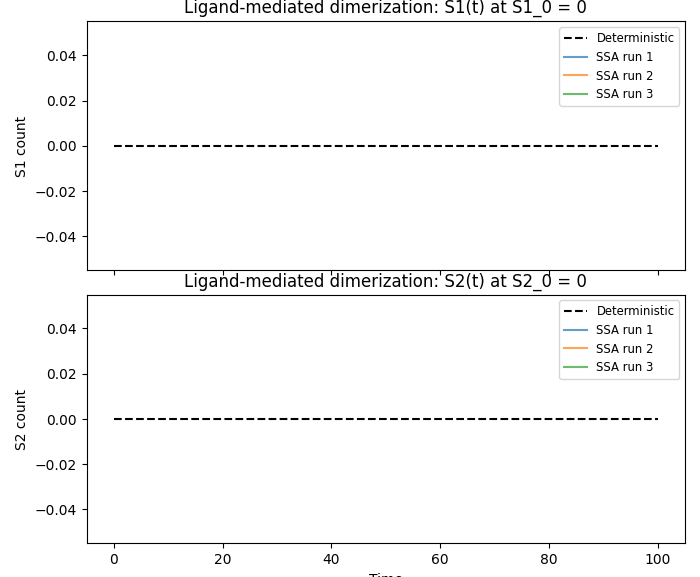
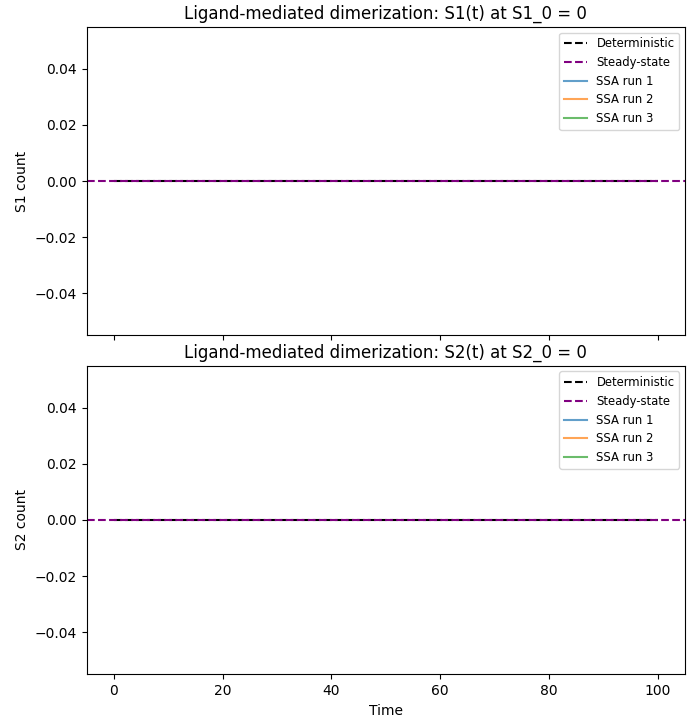
plot

diff --git a/M2R-Gillespie-algorithm-for-stochastic-biochemical-systems/src/ligand_heatmap.py b/M2R-Gillespie-algorithm-for-stochastic-biochemical-systems/src/ligand_heatmap.py
@@ -1,0 +1,100 @@
+import numpy as np  # noqa
+import matplotlib.pyplot as plt  # noqa
+from gillespie import Reaction, my_gillespie  # noqa
+
+
+def sample_mean_S1_S2(k1, k2, # noqa
+                     S1_0, S2_0, # noqa
+                     t_max, burn_in, dt_sample): # noqa
+    # build reactions
+    R1 = Reaction( # noqa
+        reactants={0: 1, 1: 1},
+        products={0: 2},
+        rate=lambda s, k1=k1: k1
+    )
+    R2 = Reaction( # noqa
+        reactants={0: 2},
+        products={0: 1, 1: 1},
+        rate=lambda s, k2=k2: k2
+    )
+    reactions = [R1, R2]
+
+    # run SSA
+    times, traj = my_gillespie(reactions, [S1_0, S2_0], t_max)
+
+    # sample in steady‐state window
+    sample_times = np.arange(burn_in, t_max, dt_sample)
+    S1_traj = traj[:, 0] # noqa
+    S2_traj = traj[:, 1] # noqa
+    S1_samples = np.interp(sample_times, times, S1_traj) # noqa
+    S2_samples = np.interp(sample_times, times, S2_traj) # noqa
+
+    return S1_samples.mean(), S2_samples.mean()
+
+
+def plot_ligand_heatmap(k1_vals, k2_vals, # noqa
+                        S1_0=100, S2_0=50, # noqa
+                        t_max=500.0,
+                        burn_in=250.0,
+                        dt_sample=5.0,
+                        n_runs=5): # noqa
+    M, N = len(k1_vals), len(k2_vals) # noqa
+    mean_S1 = np.zeros((M, N)) # noqa
+    mean_S2 = np.zeros((M, N)) # noqa
+
+    for i, k1 in enumerate(k1_vals):
+        for j, k2 in enumerate(k2_vals):
+            s1, s2 = 0.0, 0.0
+            for _ in range(n_runs):
+                m1, m2 = sample_mean_S1_S2(
+                    k1, k2,
+                    S1_0, S2_0,
+                    t_max, burn_in, dt_sample
+                )
+                s1 += m1
+                s2 += m2
+            mean_S1[i, j] = s1 / n_runs
+            mean_S2[i, j] = s2 / n_runs
+
+    # create meshgrid for plotting
+    K2, K1 = np.meshgrid(k2_vals, k1_vals) # noqa
+
+    # plot
+    fig, (ax1, ax2) = plt.subplots(1, 2, figsize=(12, 5))
+
+    im1 = ax1.pcolormesh(
+        K2, K1, mean_S1,
+        shading='auto', cmap='viridis'
+    )
+    fig.colorbar(im1, ax=ax1, label='Mean S1')
+    ax1.set_xlabel('k2 (dissociation rate)')
+    ax1.set_ylabel('k1 (association rate)')
+    ax1.set_title('Steady-state mean S1')
+
+    im2 = ax2.pcolormesh(
+        K2, K1, mean_S2,
+        shading='auto', cmap='magma'
+    )
+    fig.colorbar(im2, ax=ax2, label='Mean S2')
+    ax2.set_xlabel('k2 (dissociation rate)')
+    ax2.set_ylabel('k1 (association rate)')
+    ax2.set_title('Steady-state mean S2')
+
+    fig.suptitle('Ligand_heatmap')
+
+    plt.tight_layout()
+    plt.show()
+
+
+if __name__ == "__main__":
+    k1_vals = np.linspace(0.001, 0.01, 10)
+    k2_vals = np.linspace(0.001, 0.02, 10)
+
+    plot_ligand_heatmap(
+        k1_vals, k2_vals,
+        S1_0=100, S2_0=50,
+        t_max=500.0,
+        burn_in=250.0,
+        dt_sample=5.0,
+        n_runs=5
+    )

diff --git a/M2R-Gillespie-algorithm-for-stochastic-biochemical-systems/src/degradation_example_in_ref.py b/M2R-Gillespie-algorithm-for-stochastic-biochemical-systems/src/degradation_example_in_ref.py
@@ -1,30 +1,59 @@
-import numpy as np # noqa
+import numpy as np  # noqa
 import matplotlib.pyplot as plt
 from gillespie import Reaction, my_gillespie
 
-# Case 1: degradation
-k = 1.0
-R = Reaction(reactants={0: 1}, products={}, rate=lambda state: k)
-initial = [100]
-t_max=6 # noqa
 
-# analytic mean and std
-t = np.linspace(0, t_max, 200)
-mean = initial[0] * np.exp(-k * t)
-std = np.sqrt(initial[0] * np.exp(-k * t) * (1 - np.exp(-k * t)))
+def plot_degradation_two_ks( # noqa
+    k_list, X0=100, t_max=6.0, n_ssa=2 # noqa
+):  # noqa
+    t = np.linspace(0, t_max, 200)
+    fig, axes = plt.subplots(
+        1, len(k_list),
+        figsize=(5 * len(k_list), 4),
+        sharey=True,
+        constrained_layout=True
+    )
+    if len(k_list) == 1:
+        axes = [axes]
 
-plt.figure(figsize=(8, 5))
-for run_idx in range(2):
-    times, traj = my_gillespie([R], initial, t_max)
-    plt.step(times, traj[:, 0], where='post', alpha=0.7, label=f'SSA run {run_idx+1}') # noqa
+    for ax, k in zip(axes, k_list):
+        # analytic
+        mean = X0 * np.exp(-k * t)
+        std  = np.sqrt(X0 * np.exp(-k * t) * (1 - np.exp(-k * t))) # noqa
+        ax.plot(t, mean, 'r-',  lw=1.5, label='Analytic mean')
+        ax.plot(t, mean+ std,'r--', lw=1.0, label='Analytic ±1 std') # noqa
+        ax.plot(t, mean- std,'r--', lw=1.0) # noqa
 
-# plot analytic mean and ±1
-plt.plot(t, mean,  'r-',  linewidth=1.5, label='Analytic mean')
-plt.plot(t, mean+std, 'r--', linewidth=1.0, label='Analytic ±1 std')
-plt.plot(t, mean-std, 'r--', linewidth=1.0)
+        # SSA runs
+        for i in range(n_ssa):
+            R = Reaction( # noqa
+                reactants={0: 1},
+                products={},
+                rate=lambda s, k=k: k
+            )
+            times, traj = my_gillespie([R], [X0], t_max)
+            ax.step(
+                times, traj[:, 0],
+                where='post',
+                alpha=0.7,
+                label=(f'SSA run {i+1}')
+            )
 
-plt.xlabel('t')
-plt.ylabel('count')
-plt.title('Degradation S->∅')
-plt.legend()
-plt.show()
+        ax.set_title(f'k = {k}')
+        ax.set_xlabel('time')
+        if ax is axes[0]:
+            ax.set_ylabel('count')
+        ax.legend(fontsize='small', loc='upper right')
+
+    fig.suptitle('Degradation S→∅')
+
+    plt.show()
+
+
+if __name__ == "__main__":
+    plot_degradation_two_ks(
+        k_list=[0.5, 2.0],
+        X0=100,
+        t_max=6.0,
+        n_ssa=2
+    )

diff --git a/M2R-Gillespie-algorithm-for-stochastic-biochemical-systems/src/birth_death_heatmap.py b/M2R-Gillespie-algorithm-for-stochastic-biochemical-systems/src/birth_death_heatmap.py
@@ -1,0 +1,45 @@
+import numpy as np  # noqa
+import matplotlib.pyplot as plt
+from gillespie import Reaction, my_gillespie
+
+
+def plot_bd_heatmap(k1_vals, k2_vals, X0, # noqa
+                    t_max, burn_in, dt_sample, n_runs=50):
+    M, N = len(k1_vals), len(k2_vals) # noqa
+    means = np.zeros((M, N))
+
+    for i, k1_ in enumerate(k1_vals):
+        for j, k2_ in enumerate(k2_vals):
+            birth = Reaction({}, {0: 1}, rate=lambda s, k2_=k2_: k2_)
+            death = Reaction({0: 1}, {},   rate=lambda s, k1_=k1_: k1_)
+            reactions = [birth, death]
+
+            times, traj = my_gillespie(reactions, [X0], t_max)
+            sample_times = np.arange(burn_in, t_max, dt_sample)
+            vals = np.interp(sample_times, times, traj[:, 0])
+            means[i, j] = np.mean(vals)
+
+    plt.figure(figsize=(8, 6))
+    plt.pcolormesh(
+        k2_vals,
+        k1_vals,
+        means,
+        shading='auto',
+        cmap='viridis'
+    )
+    cbar = plt.colorbar()
+    cbar.set_label('Mean molecules count')
+    plt.xlabel('k2 (birth rate)')
+    plt.ylabel('k1 (death rate)')
+    plt.title(f'Steady-state mean (X0={X0})')
+    plt.tight_layout()
+    plt.show()
+
+
+if __name__ == "__main__": # noqa
+    k1, k2, X0 = 0.1, 1.0, 0
+
+    k1_vals = np.linspace(0.05, 0.2, 10)
+    k2_vals = np.linspace(0.5, 2.0, 10)
+    plot_bd_heatmap(k1_vals, k2_vals, X0,
+                    t_max=2000, burn_in=1000, dt_sample=1.0, n_runs=50)

diff --git a/M2R-Gillespie-algorithm-for-stochastic-biochemical-systems/src/ligand_dimerization_case1.py b/M2R-Gillespie-algorithm-for-stochastic-biochemical-systems/src/ligand_dimerization_case1.py
@@ -39,6 +39,9 @@ def ode_system(x, t): # noqa
 
 # Plot function
 def plot_ligand_dimerization(S1_0, S2_0, t_max, n_ssa=5): # noqa
+    N = S1_0 + S2_0 # noqa
+    S1_ss = (k1 * N) / (k1 + k2 / 2) # noqa
+    S2_ss = N - S1_ss # noqa
     # Solve deterministic ODE
     t_grid = np.linspace(0, t_max, 500)
     ode_sol = odeint(ode_system, [S1_0, S2_0], t_grid)
@@ -52,6 +55,7 @@ def plot_ligand_dimerization(S1_0, S2_0, t_max, n_ssa=5): # noqa
     # deterministic
     ax1.plot(t_grid, ode_sol[:, 0],
              "--k", linewidth=1.5, label="Deterministic")
+    ax1.axhline(S1_ss, color='purple', linestyle='--', linewidth=1.5, label='Steady-state') # noqa
     # SSA runs
     for i in range(n_ssa):
         times, traj = my_gillespie(reactions, [S1_0, S2_0], t_max)
@@ -67,6 +71,7 @@ def plot_ligand_dimerization(S1_0, S2_0, t_max, n_ssa=5): # noqa
     # Plot for S2
     ax2.plot(t_grid, ode_sol[:, 1],
              "--k", linewidth=1.5, label="Deterministic")
+    ax2.axhline(S2_ss, color='purple', linestyle='--', linewidth=1.5, label='Steady-state') # noqa
     for i in range(n_ssa):
         # simulate SSA for S2
         times, traj = my_gillespie(reactions, [S1_0, S2_0], t_max)

diff --git a/M2R-Gillespie-algorithm-for-stochastic-biochemical-systems/src/ligand_dimerization_case2.py b/M2R-Gillespie-algorithm-for-stochastic-biochemical-systems/src/ligand_dimerization_case2.py
@@ -39,6 +39,9 @@ def ode_system(x, t): # noqa
 
 # Plot function
 def plot_ligand_dimerization(S1_0, S2_0, t_max, n_ssa=5): # noqa
+    N = S1_0 + S2_0 # noqa
+    S1_ss = (k1 * N) / (k1 + k2 / 2) # noqa
+    S2_ss = N - S1_ss # noqa
     # Solve deterministic ODE
     t_grid = np.linspace(0, t_max, 500)
     ode_sol = odeint(ode_system, [S1_0, S2_0], t_grid)
@@ -52,6 +55,7 @@ def plot_ligand_dimerization(S1_0, S2_0, t_max, n_ssa=5): # noqa
     # deterministic
     ax1.plot(t_grid, ode_sol[:, 0],
              "--k", linewidth=1.5, label="Deterministic")
+    ax1.axhline(S1_ss, color='purple', linestyle='--', linewidth=1.5, label='Steady-state') # noqa
     # SSA runs
     for i in range(n_ssa):
         times, traj = my_gillespie(reactions, [S1_0, S2_0], t_max)
@@ -67,6 +71,7 @@ def plot_ligand_dimerization(S1_0, S2_0, t_max, n_ssa=5): # noqa
     # Plot for S2
     ax2.plot(t_grid, ode_sol[:, 1],
              "--k", linewidth=1.5, label="Deterministic")
+    ax2.axhline(S2_ss, color='purple', linestyle='--', linewidth=1.5, label='Steady-state') # noqa
     for i in range(n_ssa):
         # simulate SSA for S2
         times, traj = my_gillespie(reactions, [S1_0, S2_0], t_max)

diff --git a/M2R-Gillespie-algorithm-for-stochastic-biochemical-systems/src/ligand_dimerization_case3.py b/M2R-Gillespie-algorithm-for-stochastic-biochemical-systems/src/ligand_dimerization_case3.py
@@ -39,6 +39,9 @@ def ode_system(x, t): # noqa
 
 # Plot function
 def plot_ligand_dimerization(S1_0, S2_0, t_max, n_ssa=5): # noqa
+    N = S1_0 + S2_0 # noqa
+    S1_ss = (k1 * N) / (k1 + k2 / 2) # noqa
+    S2_ss = N - S1_ss # noqa
     # Solve deterministic ODE
     t_grid = np.linspace(0, t_max, 500)
     ode_sol = odeint(ode_system, [S1_0, S2_0], t_grid)
@@ -52,6 +55,7 @@ def plot_ligand_dimerization(S1_0, S2_0, t_max, n_ssa=5): # noqa
     # deterministic
     ax1.plot(t_grid, ode_sol[:, 0],
              "--k", linewidth=1.5, label="Deterministic")
+    ax1.axhline(S1_ss, color='purple', linestyle='--', linewidth=1.5, label='Steady-state') # noqa
     # SSA runs
     for i in range(n_ssa):
         times, traj = my_gillespie(reactions, [S1_0, S2_0], t_max)
@@ -67,6 +71,7 @@ def plot_ligand_dimerization(S1_0, S2_0, t_max, n_ssa=5): # noqa
     # Plot for S2
     ax2.plot(t_grid, ode_sol[:, 1],
              "--k", linewidth=1.5, label="Deterministic")
+    ax2.axhline(S2_ss, color='purple', linestyle='--', linewidth=1.5, label='Steady-state') # noqa
     for i in range(n_ssa):
         # simulate SSA for S2
         times, traj = my_gillespie(reactions, [S1_0, S2_0], t_max)

diff --git a/M2R-Gillespie-algorithm-for-stochastic-biochemical-systems/src/ligand_dimerization_case4.py b/M2R-Gillespie-algorithm-for-stochastic-biochemical-systems/src/ligand_dimerization_case4.py
@@ -39,6 +39,9 @@ def ode_system(x, t): # noqa
 
 # Plot function
 def plot_ligand_dimerization(S1_0, S2_0, t_max, n_ssa=5): # noqa
+    N = S1_0 + S2_0 # noqa
+    S1_ss = (k1 * N) / (k1 + k2 / 2) # noqa
+    S2_ss = N - S1_ss # noqa
     # Solve deterministic ODE
     t_grid = np.linspace(0, t_max, 500)
     ode_sol = odeint(ode_system, [S1_0, S2_0], t_grid)
@@ -52,6 +55,7 @@ def plot_ligand_dimerization(S1_0, S2_0, t_max, n_ssa=5): # noqa
     # deterministic
     ax1.plot(t_grid, ode_sol[:, 0],
              "--k", linewidth=1.5, label="Deterministic")
+    ax1.axhline(S1_ss, color='purple', linestyle='--', linewidth=1.5, label='Steady-state') # noqa
     # SSA runs
     for i in range(n_ssa):
         times, traj = my_gillespie(reactions, [S1_0, S2_0], t_max)
@@ -67,6 +71,7 @@ def plot_ligand_dimerization(S1_0, S2_0, t_max, n_ssa=5): # noqa
     # Plot for S2
     ax2.plot(t_grid, ode_sol[:, 1],
              "--k", linewidth=1.5, label="Deterministic")
+    ax2.axhline(S2_ss, color='purple', linestyle='--', linewidth=1.5, label='Steady-state') # noqa
     for i in range(n_ssa):
         # simulate SSA for S2
         times, traj = my_gillespie(reactions, [S1_0, S2_0], t_max)

diff --git a/M2R-Gillespie-algorithm-for-stochastic-biochemical-systems/src/birth_death_testing_analytical_solution.py b/M2R-Gillespie-algorithm-for-stochastic-biochemical-systems/src/birth_death_testing_analytical_solution.py
@@ -37,6 +37,7 @@ def plot_birth_death1(k1, k2, X0, t_max, n_trajectories=200): # noqa
 
     #  ODE
     plt.plot(t_grid, x_ode, 'k-', linewidth=1.5, label='Deterministic')
+    plt.axhline(k2 / k1, color='purple', linestyle='--', linewidth=1.5, label='Deterministic Steady-state') # noqa
     max_ode = x_ode.max()
 
     plt.plot(t_grid, mean, 'r-', linewidth=1.5, label='Analytic mean')

diff --git a/M2R-Gillespie-algorithm-for-stochastic-biochemical-systems/src/degradation_in_distribution.py b/M2R-Gillespie-algorithm-for-stochastic-biochemical-systems/src/degradation_in_distribution.py
@@ -49,7 +49,7 @@ plt.plot(n_vals, pn, 'ro-', markersize=4, label='Analytic Binomial')
 
 plt.xlabel('Number of molecules n')
 plt.ylabel('Probability')
-plt.title(f'Degradation Station distribution at t = {t_max}')
+plt.title(f'Degradation Stationary distribution at t = {t_max}')
 plt.xticks(n_vals[::10])
 plt.legend(loc='upper right')
 plt.tight_layout()

diff --git a/M2R-Gillespie-algorithm-for-stochastic-biochemical-systems/src/protein_complex_case2.py b/M2R-Gillespie-algorithm-for-stochastic-biochemical-systems/src/protein_complex_case2.py
@@ -3,7 +3,7 @@ import matplotlib.pyplot as plt
 from scipy.integrate import odeint
 from gillespie import Reaction, my_gillespie
 
-# This code is quite similar to protein_complex_second.py
+# This code is quite similar to protein_complex_case1.py
 k1 = 0.001  # A + A → C
 k2 = 0.01  # A + B → D
 k3 = 1.2   # ∅ → A

diff --git a/M2R-Gillespie-algorithm-for-stochastic-biochemical-systems/src/gene_expression_vary_k_tl.py b/M2R-Gillespie-algorithm-for-stochastic-biochemical-systems/src/gene_expression_vary_k_tl.py
@@ -37,7 +37,6 @@ def plot_gene_expression_vary_k_tl( # noqa
         R4 = Reaction({2:1}, {},            rate=lambda s: gamma_p) # noqa
         reactions = [R1, R2, R3, R4]
 
-        # deterministic solution
         ode_sol = odeint(ode_system, [D0, R0, P0], t_grid, args=(k_tl,))
 
         axR = axes[0, j] # noqa
